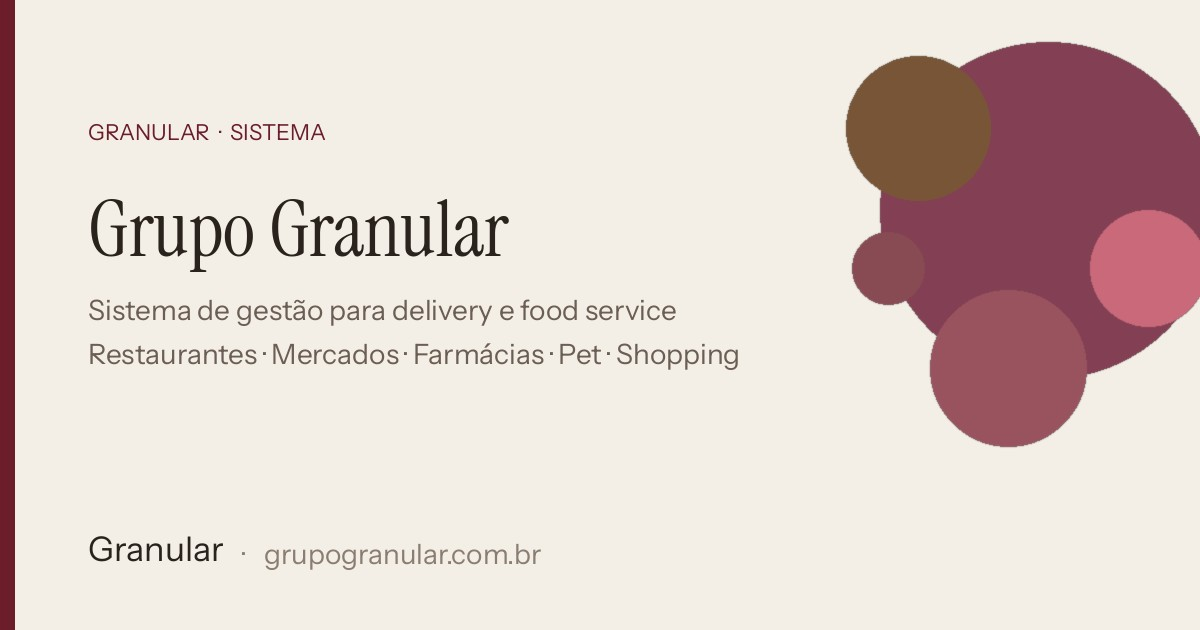
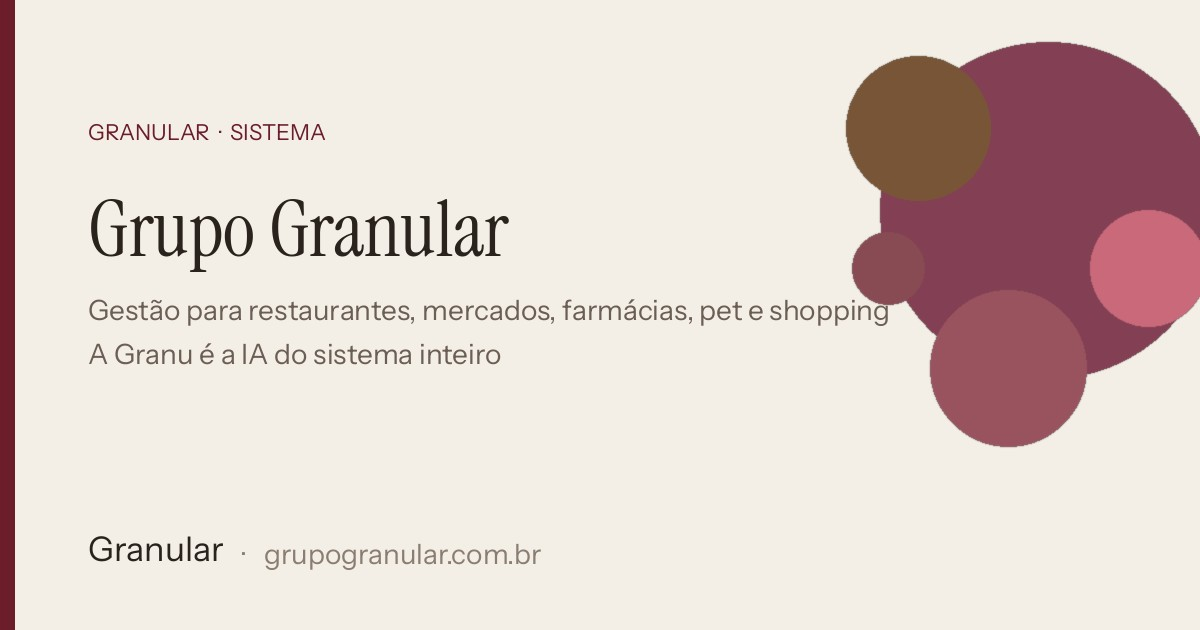
feat: título e descrição institucionais no Google e WhatsApp
Título curto e descrição com as cinco categorias e a Granu no lugar dos 15 agentes.

Changed region(s): [[0.0617, 0.5429, 0.6167, 0.6032], [0.0617, 0.4825, 0.74, 0.5127]]

diff --git a/index.html b/index.html
@@ -5,11 +5,11 @@
     <link rel="icon" type="image/svg+xml" href="/favicon.svg" />
     <meta name="viewport" content="width=device-width, initial-scale=1.0" />
 
-    <!-- Title (57 chars) -->
-    <title>Granular — Sistema de Gestão para Delivery e Food Service</title>
+    <!-- Title (46 chars) -->
+    <title>Granular — Sistema de Gestão para Delivery</title>
 
-    <!-- Meta Description (144 chars) -->
-    <meta name="description" content="Sistema de gestão para restaurantes e supermercados. Controle de estoque, financeiro, iFood, RH e 15 agentes de IA para delivery e food service." />
+    <!-- Meta Description (136 chars) -->
+    <meta name="description" content="Gestão para restaurantes, mercados, farmácias, pet e shopping. A Granu é a IA do sistema inteiro: operação, estoque, financeiro e iFood." />
 
     <!-- Canonical -->
     <link rel="canonical" href="https://www.grupogranular.com.br/" />
@@ -24,24 +24,24 @@
     <!-- Open Graph (Facebook/LinkedIn) -->
     <meta property="og:type" content="website" />
     <meta property="og:url" content="https://www.grupogranular.com.br/" />
-    <meta property="og:title" content="Granular — Sistema de Gestão para Delivery e Food Service" />
-    <meta property="og:description" content="Sistema de gestão para restaurantes e supermercados. Controle de estoque, financeiro, iFood, RH e 15 agentes de IA para delivery e food service." />
-    <meta property="og:image" content="https://www.grupogranular.com.br/og/og-share.jpg" />
-    <meta property="og:image:secure_url" content="https://www.grupogranular.com.br/og/og-share.jpg" />
+    <meta property="og:title" content="Granular — Sistema de Gestão para Delivery" />
+    <meta property="og:description" content="Gestão para restaurantes, mercados, farmácias, pet e shopping. A Granu é a IA do sistema inteiro: operação, estoque, financeiro e iFood." />
+    <meta property="og:image" content="https://www.grupogranular.com.br/og/og-share.jpg?v=2" />
+    <meta property="og:image:secure_url" content="https://www.grupogranular.com.br/og/og-share.jpg?v=2" />
     <meta property="og:image:type" content="image/jpeg" />
     <meta property="og:image:width" content="1200" />
     <meta property="og:image:height" content="630" />
-    <meta property="og:image:alt" content="Grupo Granular — sistema de gestão para delivery e food service" />
+    <meta property="og:image:alt" content="Grupo Granular — sistema de gestão para delivery" />
     <meta property="og:locale" content="pt_BR" />
     <meta property="og:site_name" content="Grupo Granular" />
-    <link rel="image_src" href="https://www.grupogranular.com.br/og/og-share.jpg" />
+    <link rel="image_src" href="https://www.grupogranular.com.br/og/og-share.jpg?v=2" />
 
     <!-- Twitter/X Cards -->
     <meta name="twitter:card" content="summary_large_image" />
-    <meta name="twitter:title" content="Granular — Sistema de Gestão para Delivery e Food Service" />
-    <meta name="twitter:description" content="Sistema de gestão para restaurantes e supermercados. Estoque, financeiro, iFood, RH e 15 agentes de IA para delivery e food service." />
-    <meta name="twitter:image" content="https://www.grupogranular.com.br/og/og-share.jpg" />
-    <meta name="twitter:image:alt" content="Grupo Granular — sistema de gestão para delivery e food service" />
+    <meta name="twitter:title" content="Granular — Sistema de Gestão para Delivery" />
+    <meta name="twitter:description" content="Gestão para restaurantes, mercados, farmácias, pet e shopping. A Granu é a IA do sistema inteiro: operação, estoque, financeiro e iFood." />
+    <meta name="twitter:image" content="https://www.grupogranular.com.br/og/og-share.jpg?v=2" />
+    <meta name="twitter:image:alt" content="Grupo Granular — sistema de gestão para delivery" />
 
     <!-- Robots -->
     <meta name="robots" content="index, follow" />
@@ -54,7 +54,7 @@
       "name": "Grupo Granular",
       "url": "https://www.grupogranular.com.br",
       "logo": "https://www.grupogranular.com.br/favicon.svg",
-      "description": "Sistema de gestão completo e mentoria especializada para delivery e food service. Restaurantes, supermercados, atacarejos, farmácias e pet shops.",
+      "description": "Gestão para restaurantes, mercados, farmácias, pet e shopping. A Granu é a IA do sistema inteiro: operação, estoque, financeiro e iFood.",
       "sameAs": [
         "https://instagram.com/grupogranular",
         "https://linkedin.com/company/grupogranular"
@@ -74,7 +74,7 @@
       "@type": "LocalBusiness",
       "name": "Grupo Granular",
       "url": "https://www.grupogranular.com.br",
-      "description": "Consultoria e sistema de gestão para delivery e food service",
+      "description": "Sistema de gestão para delivery — restaurantes, mercados, farmácias, pet e shopping",
       "address": {
         "@type": "PostalAddress",
         "addressLocality": "Belo Horizonte",
@@ -93,7 +93,7 @@
       "name": "Granular",
       "applicationCategory": "BusinessApplication",
       "operatingSystem": "Web",
-      "description": "Sistema de gestão para delivery e food service com estoque, financeiro, KDS, CRM, checklists e 15 agentes de IA.",
+      "description": "Sistema de gestão para delivery. A Granu é a IA do sistema inteiro: operação, estoque, financeiro e iFood.",
       "offers": {
         "@type": "Offer",
         "price": "89",
@@ -132,10 +132,10 @@
   <body>
     <!-- Conteúdo pré-renderizado para SEO e LLMs (hidden, lido por crawlers) -->
     <div id="seo-content" class="seo-hidden">
-      <p><strong>Granular — Sistema de Gestão para Delivery e Food Service</strong></p>
-      <p>Sistema de gestão completo para restaurantes, supermercados, atacarejos, farmácias e pet shops. Controle de estoque, financeiro com DRE automático, integração iFood, KDS para cozinha, CRM, checklists operacionais, gestão de pessoas (RH) e 15 agentes de IA.</p>
+      <p><strong>Granular — Sistema de Gestão para Delivery</strong></p>
+      <p>Gestão para restaurantes, mercados, farmácias, pet e shopping. A Granu é a IA do sistema inteiro: operação, estoque, financeiro e iFood.</p>
       <h2>Módulos do Sistema</h2>
-      <p>Estoque Inteligente, Produção e Fichas Técnicas, KDS Kitchen Display, Financeiro e DRE, iFood e Pedidos, CRM e Clientes, Checklists Operacionais, 15 Agentes de IA, Pessoas RH, Relatórios, Integrações.</p>
+      <p>Estoque Inteligente, Produção e Fichas Técnicas, KDS Kitchen Display, Financeiro e DRE, iFood e Pedidos, CRM e Clientes, Checklists Operacionais, Granu | A sua IA, Pessoas RH, Relatórios, Integrações.</p>
       <h2>Mentoria Especializada</h2>
       <p>Mentores com experiência real em delivery e food service. Diagnóstico completo da operação, plano de ação personalizado, 4 horas mensais de acompanhamento. Pacotes de 1, 3 ou 6 meses.</p>
       <h2>Integrações</h2>
